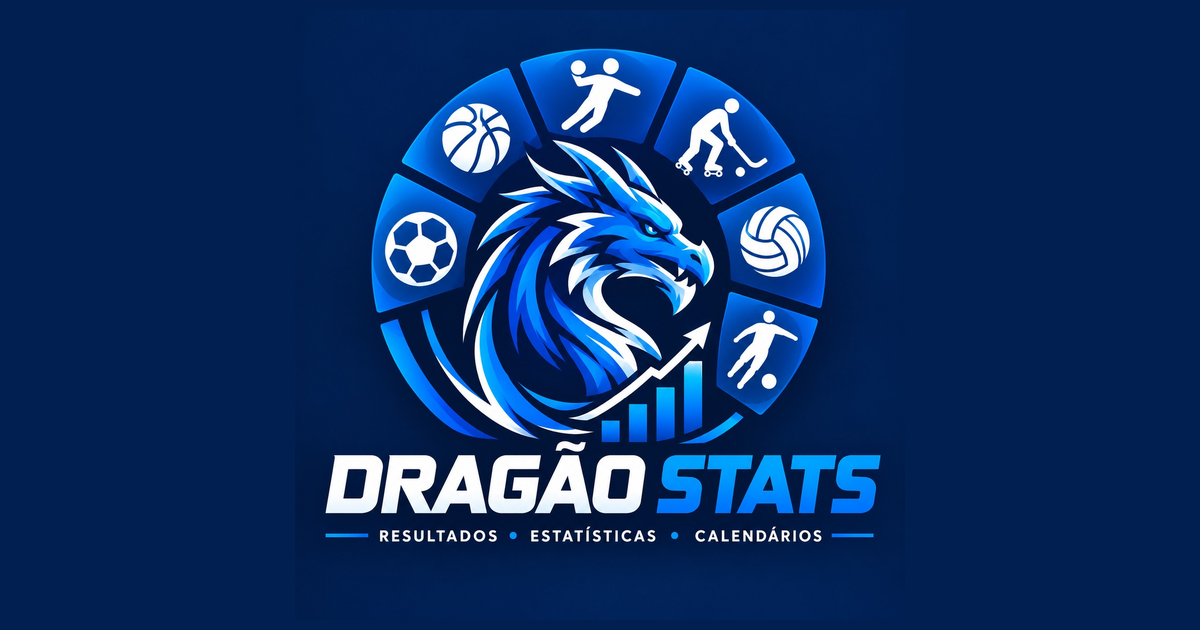
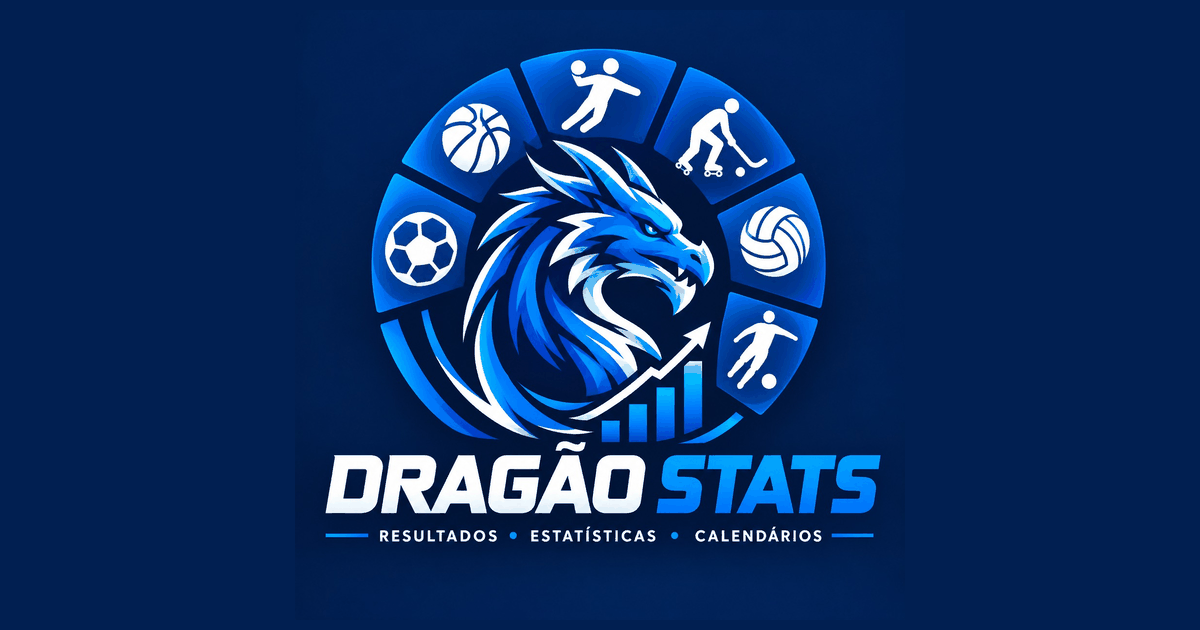
v192: remove Novidades, alinhamento do Início, og-image leve, cabeçalhos de segurança
Claude-Session: https://claude.ai/code/session_012RexmAJbnzmbcGE4TYxjgz

diff --git a/src/scripts/14-player-stats-and-panels.js b/src/scripts/14-player-stats-and-panels.js
@@ -562,9 +562,6 @@ function maybeShowIntro(){
 document.getElementById("introCloseBtn").onclick = ()=>{
   document.getElementById("introOverlay").style.display = "none";
   try{ localStorage.setItem("dia22-intro-seen", INTRO_VERSION); }catch(e){}
-  // quem acabou de chegar não tem "novidades" para ver — fica logo marcado como visto,
-  // para o popup de novidades só aparecer a quem já cá veio e há algo novo a mostrar
-  try{ localStorage.setItem("dia22-changelog-seen", CHANGELOG_VERSION); }catch(e){}
 };
 // Toast genérico, para avisos pontuais (ex: resposta a um reporte) — sem limite
 // de "uma vez por dia", ao contrário do modal de boas-vindas.
@@ -629,21 +626,6 @@ function ensureViewerRegistered(){
 
 // Bloqueia o modo de EDIÇÃO com uma password de administração — impede que alguém
 // tire o "?view=readonly" do link e fique com acesso total sem pedir nada.
-// Popup de novidades — mostra-se uma vez a cada pessoa/aparelho, sempre que
-// CHANGELOG_VERSION mudar. Para publicar novidades novas no futuro, basta mudar
-// este texto e subir o número da versão aqui.
-const CHANGELOG_VERSION = "2026-09-28a";
-const CHANGELOG_HTML = `
-  <div style="padding:0 2px;">
-    <p style="margin:0 0 4px; font-weight:700; font-size:14px; color:var(--text);">🎯 Adversário do dia</p>
-    <p style="margin:0 0 14px; font-size:13px; color:var(--text-dim); line-height:1.5;">Quando há jogo, aparece logo no topo quem é o adversário — até o jogo começar.</p>
-    <p style="margin:0 0 4px; font-weight:700; font-size:14px; color:var(--text);">📲 Instalar app</p>
-    <p style="margin:0 0 14px; font-size:13px; color:var(--text-dim); line-height:1.5;">Um botão novo, sempre à mão, para pôr o Dragão Stats no ecrã principal do telemóvel.</p>
-    <p style="margin:0 0 4px; font-weight:700; font-size:14px; color:var(--text);">ℹ Sobre o Dragão Stats</p>
-    <p style="margin:0; font-size:13px; color:var(--text-dim); line-height:1.5;">No rodapé, conta quem somos e porque criámos este projeto.</p>
-  </div>
-`;
-
 const PRIVACY_HTML = `
   <div class="medal-section-title">🔒 Política de Privacidade</div>
   <p style="margin:10px 0 14px; font-size:13px; color:var(--text-dim);">Esta é uma app de adeptos, sem qualquer ligação oficial ao FC Porto — um projeto pessoal, sem fins lucrativos, gerido por Fernando Silva e pelo seu irmão.</p>

diff --git a/src/styles/06-tabs-and-medals.css b/src/styles/06-tabs-and-medals.css
@@ -272,7 +272,8 @@ html.theme-light .hv-row-sport{ color:color-mix(in srgb, var(--sc,#5bb4f0) 55%, 
 /* No computador, o cartão "ao vivo" e o destaque do Início ficavam enormes — mais compactos */
 @media (min-width:900px){
   /* placard compacto e centrado, em vez de uma barra de ponta a ponta */
-  #liveNowBanner .live-now-card{ max-width:680px; margin-left:auto; margin-right:auto; padding:12px 18px; }
+  #liveNowBanner .live-now-card{ max-width:none; padding:12px 18px; }
+  #liveNowBanner .live-now-row, #liveNowBanner .live-now-sets{ max-width:680px; margin-left:auto; margin-right:auto; }
   .live-now-team{ white-space:normal; overflow:visible; line-height:1.15; }
   .live-now-row{ grid-template-columns:1fr auto 1fr; gap:16px; }
   .live-now-team{ font-size:18px; }
@@ -463,7 +464,7 @@ body.view-inicio #nextMatchBanner, body.view-inicio #todayOpponentBanner{ displa
 @media (min-width:1200px){ body.view-inicio .wrap-main{ display:flex; flex-direction:column; } body.view-inicio .wrap-main > .main-col{ order:1; } body.view-inicio .wrap-main > .sidebar-col{ order:2; } }
 /* Início: destaque e resultados na coluna da esquerda, "Esta semana" na direita */
 @media (min-width:900px){
-  .hv-top{ display:grid; grid-template-columns:minmax(0,1.55fr) minmax(320px,1fr); grid-template-areas:"hero week" "res week" "cls cls"; gap:16px; align-items:start; }
+  .hv-top{ display:grid; grid-template-columns:minmax(0,1.55fr) minmax(320px,1fr); grid-template-areas:"hero week" "res week" "cls cls"; grid-template-rows:auto minmax(0,1fr) auto; gap:16px; align-items:start; }
   .hv-top > .hv-hero{ grid-area:hero; flex:none; }
   .hv-top > .hv-week{ grid-area:week; margin:0; }
   .hv-top > .hv-results{ grid-area:res; margin:0; }
@@ -901,3 +902,4 @@ html:not(.theme-light) .hv-row-sport, html:not(.theme-light) .hv-sg .sg-pos{ col
 .mr-more{ min-height:32px; }
 .reaction-btn{ min-height:28px; }
 
+#newsletterBanner .add-save, #newsletterBanner .add-cancel{ width:auto; flex:0 0 auto; }

diff --git a/src/template/02-between-style-and-script.html b/src/template/02-between-style-and-script.html
@@ -79,12 +79,6 @@
     </div>
   </div>
 </div>
-<div id="changelogOverlay" style="display:none; position:fixed; inset:0; z-index:100; background:rgba(13,27,46,0.97); align-items:center; justify-content:center; padding:20px;">
-  <div style="max-width:420px; width:100%; max-height:85vh; overflow-y:auto; padding:4px;">
-    <div id="changelogContent"></div>
-    <button id="changelogCloseBtn" class="add-cancel" style="width:100%; margin-top:18px; padding:12px;">Entendido</button>
-  </div>
-</div>
 <div id="feedbackFormOverlay" style="display:none; position:fixed; inset:0; z-index:100; background:rgba(13,27,46,0.97); align-items:center; justify-content:center; padding:20px;">
   <div style="max-width:380px; width:100%;">
     <div style="font-size:15px; margin-bottom:14px; color:var(--text); text-align:center;">O que se passou?</div>
@@ -227,7 +221,6 @@
       <button class="hide-toggle" id="predictionRankingBtn" title="Ranking de quem acerta mais nos prognósticos de resultado">🎯 Ranking</button>
       <button class="hide-toggle" id="myYearBtn" title="Um resumo pessoal da tua ligação ao site">📖 A tua época</button>
       <button class="hide-toggle" id="quizBtn" title="Um mini-quiz com curiosidades do FC Porto">🧠 Quiz do Dragão</button>
-      <a class="hide-toggle" id="novidadesLink" href="/novidades" style="text-decoration:none; display:inline-flex; align-items:center;">🆕 Novidades</a>
       <button class="hide-toggle" id="supportBtn" title="Ajuda a cobrir os custos do site — projeto sem fins lucrativos">☕ Apoiar o projeto</button>
       <button class="social-icon-btn" id="facebookBtn" title="Segue o Dragão Stats no Facebook" aria-label="Segue o Dragão Stats no Facebook">
         <svg viewBox="0 0 24 24" aria-hidden="true"><circle cx="12" cy="12" r="12" fill="#1877F2"/><path fill="#fff" d="M13.6 21V13h2.6l.4-3h-3V8.3c0-.9.3-1.5 1.6-1.5H16.8V4.1c-.4 0-1.2-.1-2.1-.1-2.4 0-4 1.5-4 4.1V10H8v3h2.7v8z"/></svg>

diff --git a/src/scripts/15-admin-panels-a.js b/src/scripts/15-admin-panels-a.js
@@ -15,19 +15,6 @@ document.getElementById("myYearCloseBtn").onclick = ()=>{
   document.getElementById("myYearOverlay").style.display = "none";
 };
 
-function maybeShowChangelog(){
-  let seen = null;
-  try{ seen = localStorage.getItem("dia22-changelog-seen"); }catch(e){}
-  if(seen === CHANGELOG_VERSION) return;
-  const overlay = document.getElementById("changelogOverlay");
-  document.getElementById("changelogContent").innerHTML = CHANGELOG_HTML;
-  overlay.style.display = "flex";
-  document.getElementById("changelogCloseBtn").onclick = ()=>{
-    try{ localStorage.setItem("dia22-changelog-seen", CHANGELOG_VERSION); }catch(e){}
-    overlay.style.display = "none";
-  };
-}
-
 function ensureAdminAuthenticated(){
   return new Promise((resolve)=>{
     // Confia numa entrada já feita antes neste aparelho, sem voltar a perguntar

diff --git a/src/scripts/18-push-notifications-and-init.js b/src/scripts/18-push-notifications-and-init.js
@@ -152,9 +152,8 @@ function showStaleDataBanner_(at){
     // do link e ficar com acesso total sem pedir nada
     await ensureAdminAuthenticated();
   }
-  // 1ª vez: só as boas-vindas (curtas). Quem já cá veio: só as novidades, se houver
-  // versão nova. Nunca os dois de seguida.
-  if(!maybeShowIntro()) maybeShowChangelog();
+  // 1ª vez: só as boas-vindas (curtas)
+  maybeShowIntro();
   runAskManager(); // pedidos (newsletter/instalar): só a partir da 2ª visita, um por dia
   startNotifyNudgeTimer_(); // popup de notificações: ao fim de ~1 minuto (ou na 1ª reação/prognóstico)
   // Se o link tiver ?comp=...&day=..., abre logo aí em vez do último usado

diff --git a/build.js b/build.js
@@ -47,6 +47,8 @@ function build() {
 
   const html = headBeforeStyle + css + betweenStyleAndScript + js + tail;
 
+  // v192: limpa o dist antes (para ficheiros apagados em public/ não ficarem esquecidos no zip)
+  fs.rmSync(DIST, { recursive: true, force: true });
   fs.mkdirSync(DIST, { recursive: true });
   fs.writeFileSync(path.join(DIST, "index.html"), html, "utf-8");
 

diff --git a/src/scripts/39-more-sheet.js b/src/scripts/39-more-sheet.js
@@ -32,7 +32,6 @@
     ["🏆", "Marcadores", "viewLeaderboardBtn"],
     ["🗓", "Calendário em grelha", "gridToggleBtn"],
     ["📖", "A tua época", "myYearBtn"],
-    ["🆕", "Novidades", "novidadesLink"],
     ["🎯", "Ranking de palpites", "predictionRankingBtn"],
     ["🧠", "Quiz do Dragão", "quizBtn"],
     ["☕", "Apoiar o projeto", "supportBtn"],

diff --git a/public/sw.js b/public/sw.js
@@ -14,7 +14,7 @@ firebase.initializeApp({
 });
 firebase.messaging(); // já trata sozinho de mostrar a notificação quando chega em segundo plano
 
-const CACHE_NAME = "dia22-cache-v269";
+const CACHE_NAME = "dia22-cache-v270";
 const ASSETS_TO_CACHE = [
   "./",
   "./index.html",

diff --git a/CLAUDE.md b/CLAUDE.md
@@ -220,6 +220,8 @@ Depois de qualquer alteração: correr `node build.js`, testar visualmente
 
 **v189:** `55-webm-encode.js` (`webmEncodeFrames_`, mux WebM mínimo) usado por `generateWeekReel_`; fallback MediaRecorder; ecrã = 3,8+1,8·n s; cache atual `dia22-cache-v267`.
 
-**v190:** `build.js` reduz JS/CSS com esbuild (devDependency; sem ele gera sem reduzir; `--no-min` para depurar — para ler o código final use sempre `--no-min`); endereços das páginas SEO sem `.html` (canonical/og/sitemap); cache atual `dia22-cache-v269`.
+**v190:** `build.js` reduz JS/CSS com esbuild (devDependency; sem ele gera sem reduzir; `--no-min` para depurar — para ler o código final use sempre `--no-min`); endereços das páginas SEO sem `.html` (canonical/og/sitemap); cache atual `dia22-cache-v270`.
 
-**v191:** auditoria completa (Playwright 16 combinações modo/tema/largura + axe-core): contraste AA (bloco `v191` no fim de `06-tabs-and-medals.css`), `sr-h1`, `role=main`, `aria-label` no `#compSelect`, canonical na home, `sw.js` só guarda respostas `ok`; cache atual `dia22-cache-v269`.
+**v191:** auditoria completa (Playwright 16 combinações modo/tema/largura + axe-core): contraste AA (bloco `v191` no fim de `06-tabs-and-medals.css`), `sr-h1`, `role=main`, `aria-label` no `#compSelect`, canonical na home, `sw.js` só guarda respostas `ok`; cache atual `dia22-cache-v270`.
+
+**v192:** removido o popup/página/ligações "Novidades" (`/novidades` redireciona para `/` em `_redirects`); `.hv-top` com `grid-template-rows:auto minmax(0,1fr) auto`; cartão ao vivo em largura total no computador; `og-image.png` 187 KB; `_headers` com cabeçalhos de segurança; `build.js` limpa `dist`; cache atual `dia22-cache-v270`.

diff --git a/CHANGELOG.md b/CHANGELOG.md
@@ -1,3 +1,10 @@
+## v192 — Sem "Novidades", Início alinhado, imagem de partilha leve, cabeçalhos de segurança
+- Removido o "Novidades": página, popup, ligação no rodapé e linha no menu "Mais" (o endereço antigo redireciona para o Início).
+- Início no computador: o cartão "Ao vivo" ocupa a largura do conteúdo (marcador centrado) e já não há um vazio por baixo do cartão do jogo. Banner do resumo semanal: botões lado a lado no computador, a quebrar linha no telemóvel.
+- Imagem de partilha (`og-image.png`) de 409 KB para 187 KB (o WhatsApp aceita bem até ~300 KB).
+- `_headers`: `X-Content-Type-Options`, `Referrer-Policy`, `Permissions-Policy`.
+- `build.js` limpa o `dist` antes de gerar. Cache `dia22-cache-v270`.
+
 ## v191 — Auditoria: contraste, acessibilidade e pequenos defeitos
 - Contraste de cores (WCAG AA) corrigido: etiqueta "AO VIVO", marcador ao vivo, "atualizado há…", botão de notificações do banner, ligação de privacidade, posição nas Modalidades (tema claro), etiquetas roxas da Equipa B (tema escuro), vitórias no Histórico (tema claro).
 - Banner do resumo semanal: os botões já não saem do cartão em ecrãs pequenos ("Agora não" aparecia cortado). Faixa "Toda a semana": texto já cabe a 360 px.
